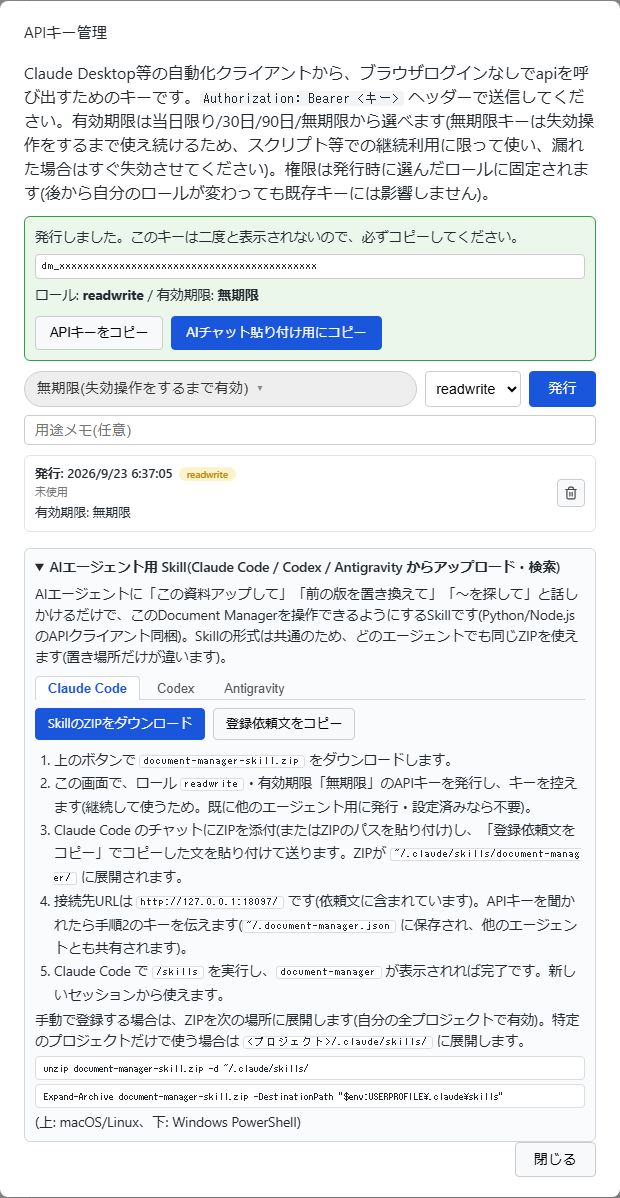
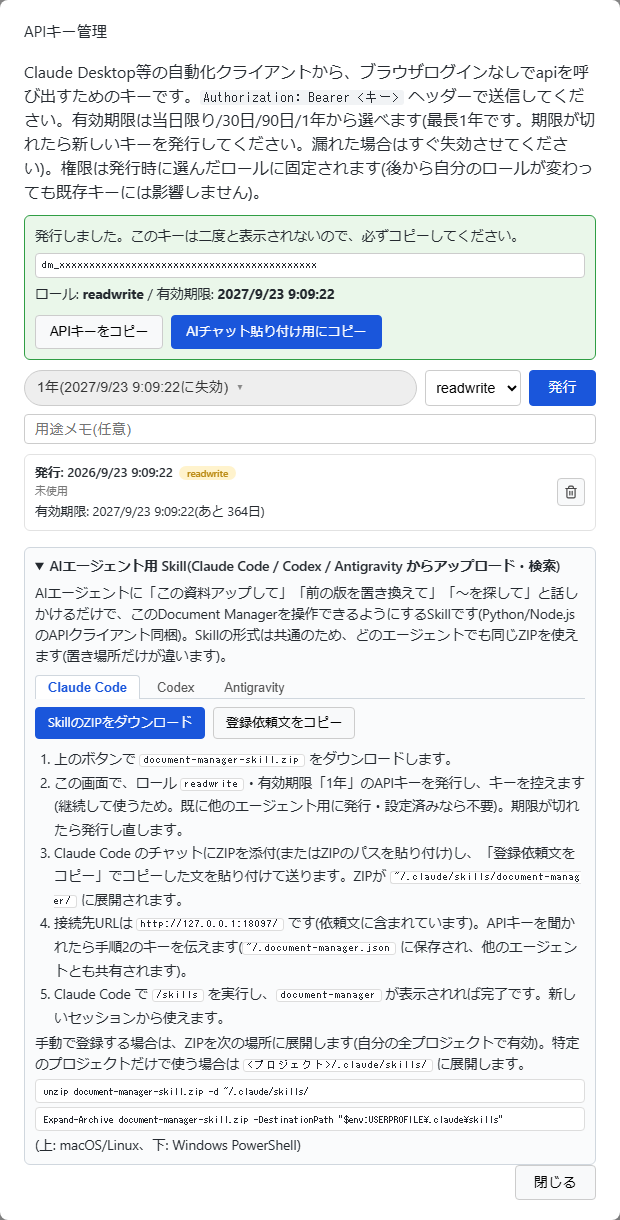
APIキーの有効期限を最長1年にし、無期限を廃止
無期限キーは漏えい時に際限なく使われるため、選択肢から外して上限を1年にした。

- 有効期限の選択肢を 当日限り/30日/90日/1年(365d)に変更。unlimited は400で拒否する
- 「無期限」だった頃に発行済みのキーは、起動時に上限(1年)へ切り詰める(capUnlimitedKeys)。
  有効なキーのみが対象で、失効済みは触らず、再実行しても二重に処理しない(実DBで確認)
- 番兵値(9999-12-31)をAPI応答でnullにしていた扱いを廃止し、常に実際の期限を返す
- 画面(発行フォーム・一覧・AIチャット貼り付け用テキスト・Skillの手順)と
  API仕様・README・SKILL.md・Docker Hub用説明文・スクリーンショットを更新
- 単体テスト・APIテストを1年基準に更新

Changed region(s): [[0.0306, 0.0, 0.9806, 0.9883], [0.9806, 0.9883, 1.0, 1.0], [0.0, 0.9883, 0.0306, 1.0]]

diff --git a/app/static/index.html b/app/static/index.html
@@ -1392,7 +1392,7 @@
 <div id="apiKeyOverlay" class="modalOverlay" style="display:none;">
 	<div class="modalBox" id="apiKeyModalBox">
 		<p>APIキー管理</p>
-		<div class="docMeta">Claude Desktop等の自動化クライアントから、ブラウザログインなしでapiを呼び出すためのキーです。<code>Authorization: Bearer &lt;キー&gt;</code> ヘッダーで送信してください。有効期限は当日限り/30日/90日/無期限から選べます(無期限キーは失効操作をするまで使え続けるため、スクリプト等での継続利用に限って使い、漏れた場合はすぐ失効させてください)。権限は発行時に選んだロールに固定されます(後から自分のロールが変わっても既存キーには影響しません)。</div>
+		<div class="docMeta">Claude Desktop等の自動化クライアントから、ブラウザログインなしでapiを呼び出すためのキーです。<code>Authorization: Bearer &lt;キー&gt;</code> ヘッダーで送信してください。有効期限は当日限り/30日/90日/1年から選べます(最長1年です。期限が切れたら新しいキーを発行してください。漏れた場合はすぐ失効させてください)。権限は発行時に選んだロールに固定されます(後から自分のロールが変わっても既存キーには影響しません)。</div>
 		<div id="apiKeyNewBox" style="display:none;"></div>
 		<div class="toolbarRow apiKeyCreateRow" style="margin: 10px 0 0;">
 			<button type="button" id="apiKeyExpirySummaryButton" class="apiKeyExpirySummaryButton"></button>
@@ -3251,12 +3251,9 @@ const API_KEY_EXPIRY_OPTIONS = [
 	},
 	{value: "30d", label: "30日", calc: (now) => new Date(now.getTime() + 30 * 24 * 60 * 60 * 1000)},
 	{value: "90d", label: "90日", calc: (now) => new Date(now.getTime() + 90 * 24 * 60 * 60 * 1000)},
-	// 無期限(サーバーはexpiresAt=nullを返す)。失効操作をするまで有効
-	{value: "unlimited", label: "無期限", calc: () => null}
+	// 発行できる最長の期限(1年)。スクリプト・AIエージェント等から継続して使う場合に選ぶ
+	{value: "365d", label: "1年", calc: (now) => new Date(now.getTime() + 365 * 24 * 60 * 60 * 1000)}
 ];
-
-// expiresAt=null(無期限キー)を期限切れ判定・並び替えで「ずっと先」として扱うためのミリ秒値
-const apiKeyExpiresAtMs = (expiresAt) => (expiresAt == null ? Infinity : new Date(expiresAt).getTime());
 
 // 選択中の有効期限オプション。デフォルトは「当日限り」で、通常はこのまま発行する想定
 let selectedApiKeyExpiryOption = "today";
@@ -3270,9 +3267,7 @@ const populateApiKeyRoleOptions = () => {
 
 const apiKeyExpiryOptionLabel = (option) => {
 	const opt = API_KEY_EXPIRY_OPTIONS.find((o) => o.value === option);
-	const expiresAt = opt.calc(new Date());
-	if (expiresAt == null) return `${opt.label}(失効操作をするまで有効)`;
-	return `${opt.label}(${formatDateTime(expiresAt.toISOString())}に失効)`;
+	return `${opt.label}(${formatDateTime(opt.calc(new Date()).toISOString())}に失効)`;
 };
 
 const updateApiKeyExpirySummary = () => {
@@ -3324,21 +3319,19 @@ const loadApiKeys = async () => {
 	const now = Date.now();
 	// 有効なキーを上、失効済みを下に。同じ状態内では発行日時が新しい順
 	const sorted = [...keys].sort((a, b) => {
-		const aExpired = apiKeyExpiresAtMs(a.expiresAt) <= now;
-		const bExpired = apiKeyExpiresAtMs(b.expiresAt) <= now;
+		const aExpired = new Date(a.expiresAt).getTime() <= now;
+		const bExpired = new Date(b.expiresAt).getTime() <= now;
 		if (aExpired !== bExpired) return aExpired ? 1 : -1;
 		return new Date(b.createdAt) - new Date(a.createdAt);
 	});
 	apiKeyList.innerHTML = sorted.length === 0
 		? `<div class="emptyMessage">APIキーはまだありません。</div>`
 		: sorted.map((row) => {
-			const expiresAtMs = apiKeyExpiresAtMs(row.expiresAt);
+			const expiresAtMs = new Date(row.expiresAt).getTime();
 			const isExpired = expiresAtMs <= now;
 			const warnSoon = !isExpired && (expiresAtMs - now) < 60 * 60 * 1000;
 			const expiryHtml = isExpired
 				? `<span class="apiKeyExpiredBadge">失効済み</span>`
-				: row.expiresAt == null
-				? `<div class="apiKeyExpiry">有効期限: 無期限</div>`
 				: `<div class="apiKeyExpiry ${warnSoon ? "warnSoon" : ""}">有効期限: ${formatDateTime(row.expiresAt)}(${formatRemainingTime(row.expiresAt)})</div>`;
 			// 発行日時を主見出しにし、用途(label)は入力されていれば備考として下に添える
 			const noteHtml = row.label ? `<div class="apiKeyMeta">${escapeHtml(row.label)}</div>` : "";
@@ -3421,7 +3414,7 @@ const renderSkillAgentGuide = () => {
 	});
 	document.getElementById("claudeSkillSteps").innerHTML = `
 		<li>上のボタンで <code>document-manager-skill.zip</code> をダウンロードします。</li>
-		<li>この画面で、ロール <code>readwrite</code>・有効期限「無期限」のAPIキーを発行し、キーを控えます(継続して使うため。既に他のエージェント用に発行・設定済みなら不要)。</li>
+		<li>この画面で、ロール <code>readwrite</code>・有効期限「1年」のAPIキーを発行し、キーを控えます(継続して使うため。既に他のエージェント用に発行・設定済みなら不要)。期限が切れたら発行し直します。</li>
 		<li>${escapeHtml(agent.label)} のチャットにZIPを添付(またはZIPのパスを貼り付け)し、「登録依頼文をコピー」でコピーした文を貼り付けて送ります。ZIPが <code>${escapeHtml(agent.dir)}/document-manager/</code> に展開されます。</li>
 		<li>接続先URLは <code id="claudeSkillBaseUrl">${escapeHtml(claudeSkillBaseUrl)}</code> です(依頼文に含まれています)。APIキーを聞かれたら手順2のキーを伝えます(<code>~/.document-manager.json</code> に保存され、他のエージェントとも共有されます)。</li>
 		<li>${agent.check}</li>
@@ -3482,7 +3475,7 @@ const buildApiKeyChatSnippet = async (apiKey, role, expiresAt) => {
 	return `Document ManagerのAPIキーを発行しました。以下の情報でAPIを直接呼び出してください。
 
 - ロール: ${role}(${roleNote})
-- 有効期限: ${expiresAt == null ? "無期限(発行者が失効させるまで使えます。外部に漏れないよう取り扱いに注意してください)" : `${formatDateTime(expiresAt)}(これを過ぎると使えなくなります。再度必要な場合は新しいキーを発行してください)`}
+- 有効期限: ${formatDateTime(expiresAt)}(これを過ぎると使えなくなります。再度必要な場合は新しいキーを発行してください)
 
 ${guide}`;
 };
@@ -3505,7 +3498,7 @@ apiKeyCreateButton.addEventListener("click", async () => {
 	apiKeyNewBox.innerHTML = `
 		発行しました。このキーは二度と表示されないので、必ずコピーしてください。
 		<code class="apiKeyValue">${created.apiKey}</code>
-		<div style="margin-top:6px;">ロール: <strong>${created.role}</strong> / 有効期限: <strong>${created.expiresAt == null ? "無期限" : formatDateTime(created.expiresAt)}</strong></div>
+		<div style="margin-top:6px;">ロール: <strong>${created.role}</strong> / 有効期限: <strong>${formatDateTime(created.expiresAt)}</strong></div>
 		<div class="apiKeyNewBoxButtons">
 			<button type="button" class="modalButton" id="apiKeyCopyRawButton">APIキーをコピー</button>
 			<button type="button" class="modalButton save" id="apiKeyCopyChatButton">AIチャット貼り付け用にコピー</button>

diff --git a/app/lib/api-keys.js b/app/lib/api-keys.js
@@ -8,8 +8,8 @@
  * 平文キーはDBに保存せず、sha256ハッシュのみを保存する(発行時に一度だけ平文を返す)。
  *
  * キーは「貼った先に平文で残る」運用を前提に、既定では有効期限を持たせる(当日限り/30日/90日)。
- * スクリプト・常駐ツール等からの継続利用向けに「無期限(unlimited)」も選べるが、その場合は
- * 失効操作(revoke)でのみ無効化される。権限はキー発行時に選んだロール
+ * 最長でも1年で失効する(無期限キーは発行できない。漏えいしたキットが際限なく使われるのを防ぐため)。
+ * スクリプト・常駐ツール等から継続利用する場合は、期限切れ前に発行し直す。権限はキー発行時に選んだロール
  * (readonly/readwrite。adminキーは発行不可)に固定される。
  * 発行者本人のロールが後から変わっても、既存キーのロードには影響しない
  * (権限判定は常に「キーに記録されたrole」を見る。発行者自身がホワイトリストから
@@ -30,17 +30,16 @@ const EXPIRY_OPTIONS = Object.freeze({
 	TODAY: "today",
 	DAYS_30: "30d",
 	DAYS_90: "90d",
-	UNLIMITED: "unlimited"
+	DAYS_365: "365d"
 });
 const isValidExpiryOption = (option) => Object.values(EXPIRY_OPTIONS).includes(option);
 
 const JST_OFFSET_MS = 9 * 60 * 60 * 1000;
 
-// 無期限キーのexpires_atに保存する番兵値(expires_atはNOT NULLのため)。ISO8601文字列の
-// 大小比較で常に「未来」になるので、verifyApiKeyの期限判定はそのままで通る。
-// APIの応答ではこの値をnull(=無期限)として返す
-const UNLIMITED_EXPIRES_AT = "9999-12-31T23:59:59.999Z";
-const toPublicExpiresAt = (expiresAt) => (expiresAt === UNLIMITED_EXPIRES_AT ? null : expiresAt);
+// 発行できる有効期限の上限(1年)。以前は「無期限」を選べたため、その頃に発行されたキーは
+// expires_atに番兵値(9999-12-31...)を持つ。起動時にこの上限まで切り詰める(capUnlimitedKeys)
+const MAX_EXPIRY_DAYS = 365;
+const LEGACY_UNLIMITED_EXPIRES_AT = "9999-12-31T23:59:59.999Z";
 
 // UTCのDateから「JSTの壁時計としての年月日」を取り出す(process.env.TZに依存させない)
 const toJstWallClockParts = (date) => {
@@ -57,7 +56,7 @@ const nextDay2amJstAsUtcDate = (now) => {
 
 /**
  * 有効期限の選択肢から実際のexpires_at(Date)を計算する。
- * TODAY(当日限り) = LEAST(now + 12時間, 翌日02:00(JST))。UNLIMITED(無期限)はnullを返す
+ * TODAY(当日限り) = LEAST(now + 12時間, 翌日02:00(JST))
  */
 const calculateExpiresAt = (option, now = new Date()) => {
 	switch (option) {
@@ -70,8 +69,8 @@ const calculateExpiresAt = (option, now = new Date()) => {
 			return new Date(now.getTime() + 30 * 24 * 60 * 60 * 1000);
 		case EXPIRY_OPTIONS.DAYS_90:
 			return new Date(now.getTime() + 90 * 24 * 60 * 60 * 1000);
-		case EXPIRY_OPTIONS.UNLIMITED:
-			return null;
+		case EXPIRY_OPTIONS.DAYS_365:
+			return new Date(now.getTime() + MAX_EXPIRY_DAYS * 24 * 60 * 60 * 1000);
 		default:
 			throw new Error(`invalid expiry option: ${option}`);
 	}
@@ -108,11 +107,27 @@ module.exports.API_KEY_ROLES = API_KEY_ROLES;
 module.exports.isValidApiKeyRole = isValidApiKeyRole;
 module.exports.isValidExpiryOption = isValidExpiryOption;
 module.exports.calculateExpiresAt = calculateExpiresAt;
-module.exports.toPublicExpiresAt = toPublicExpiresAt;
+module.exports.MAX_EXPIRY_DAYS = MAX_EXPIRY_DAYS;
+
+/**
+ * 「無期限」だった頃に発行されたキーを、現在の上限(1年)まで切り詰める。
+ * 起動のたびに実行して安全(対象が無ければ何もしない)。失効済みのキーは対象外
+ */
+module.exports.capUnlimitedKeys = async () => {
+	const cappedAt = new Date(Date.now() + MAX_EXPIRY_DAYS * 24 * 60 * 60 * 1000).toISOString();
+	const result = await ds.run(
+		"UPDATE api_keys SET expires_at = ? WHERE expires_at = ? AND revoked_at IS NULL",
+		[cappedAt, LEGACY_UNLIMITED_EXPIRES_AT]
+	);
+	if (result.changes > 0) {
+		logger.warn({count: result.changes, expiresAt: cappedAt}, "無期限だったAPIキーの有効期限を1年に切り詰めました");
+	}
+	return result.changes;
+};
 
 /**
  * 新しいAPIキーを発行する。平文キーはこの戻り値でのみ取得可能。
- * role(readonly/readwrite)とexpiryOption(today/30d/90d/unlimited)は呼び出し元(server.js)で
+ * role(readonly/readwrite)とexpiryOption(today/30d/90d/365d)は呼び出し元(server.js)で
  * 発行者の現在のロールと突き合わせた上で渡すこと。ここでは値の形式だけを検証する。
  */
 module.exports.createApiKey = async (label, role, expiryOption, createdBy) => {
@@ -133,9 +148,9 @@ module.exports.createApiKey = async (label, role, expiryOption, createdBy) => {
 		role,
 		created_by: createdBy,
 		created_at: now.toISOString(),
-		expires_at: expiresAt == null ? UNLIMITED_EXPIRES_AT : expiresAt.toISOString()
+		expires_at: expiresAt.toISOString()
 	});
-	return {id, label, role, apiKey, expiresAt: expiresAt == null ? null : expiresAt.toISOString()};
+	return {id, label, role, apiKey, expiresAt: expiresAt.toISOString()};
 };
 
 /**

diff --git a/app/server.js b/app/server.js
@@ -2093,8 +2093,7 @@ app.get(BASE_URL_PATH + 'api/apikeys', requireAuth, async (req, res) => {
 			role: row.role,
 			createdBy: row.created_by,
 			createdAt: row.created_at,
-			// 無期限キーはnull
-			expiresAt: ApiKeys.toPublicExpiresAt(row.expires_at),
+			expiresAt: row.expires_at,
 			lastUsedAt: row.last_used_at
 		}));
 		res.status(200).json(keys);
@@ -2131,7 +2130,7 @@ app.post(BASE_URL_PATH + 'api/apikeys', requireAuth, async (req, res) => {
 			return;
 		}
 		if (!ApiKeys.isValidExpiryOption(expiryOption)) {
-			res.status(400).json({error: "expiryOption must be one of today/30d/90d/unlimited"});
+			res.status(400).json({error: "expiryOption must be one of today/30d/90d/365d"});
 			return;
 		}
 		const created = await ApiKeys.createApiKey(label, role, expiryOption, req.authData.user_identifier);
@@ -2695,6 +2694,8 @@ const main = async () => {
 	// 前回の起動時に強制終了等でバックグラウンド処理中(processing)のまま残った文書があれば
 	// 未処理に戻す(プロセス内キューの情報は再起動で失われるため)。バックフィルより先に行うことで、
 	// 未処理へ戻った文書もバックフィル/以後の索引付けで正しく再処理の対象になるようにする
+	// 「無期限」を選べた頃に発行されたAPIキーがあれば、現在の上限(1年)へ切り詰める
+	await ApiKeys.capUnlimitedKeys();
 	await VectorSearch.recoverStaleProcessing();
 	// 過去にアップロードされた(このベクトル検索機能の導入前からある)文書を差分バックフィルする。
 	// サーバー起動をブロックしないよう非同期で流す。WEAVIATE_URL未設定時はisEnabled()の時点で

diff --git a/app/lib/api-spec.js b/app/lib/api-spec.js
@@ -212,8 +212,8 @@ const OPERATIONS = [
 	{id: "listApiKeys", method: "get", path: "/api/apikeys", role: "readonly", tag: "APIキー", summary: "自分が発行したAPIキーの一覧", aiGuide: false},
 	{
 		id: "createApiKey", method: "post", path: "/api/apikeys", role: "readonly", tag: "APIキー", summary: "APIキーの発行", aiGuide: false,
-		description: "ロールは発行者自身のロール以下(readonly/readwriteのみ。adminキーは発行不可)。有効期限は today/30d/90d/unlimited",
-		body: {schema: {type: "object", required: ["role", "expiryOption"], properties: {label: {type: "string"}, role: {enum: ["readonly", "readwrite"]}, expiryOption: {enum: ["today", "30d", "90d", "unlimited"]}}}}
+		description: "ロールは発行者自身のロール以下(readonly/readwriteのみ。adminキーは発行不可)。有効期限は today/30d/90d/365d(無期限キーは発行できない。最長1年)",
+		body: {schema: {type: "object", required: ["role", "expiryOption"], properties: {label: {type: "string"}, role: {enum: ["readonly", "readwrite"]}, expiryOption: {enum: ["today", "30d", "90d", "365d"]}}}}
 	},
 	{id: "revokeApiKey", method: "delete", path: "/api/apikeys/:id", role: "readonly", tag: "APIキー", summary: "自分が発行したAPIキーの失効", aiGuide: false},
 	{id: "listTagOrder", method: "get", path: "/api/tag_order", role: "readonly", tag: "タグ体系", summary: "タグ体系(表示するタグと並び順)の取得", aiGuide: false},

diff --git a/test/unit.test.js b/test/unit.test.js
@@ -89,11 +89,12 @@ test("calculateExpiresAt: today は min(now+12h, 翌日02:00 JST)", () => {
 	assert.equal(ApiKeys.calculateExpiresAt("today", now).toISOString(), "2026-01-01T12:00:00.000Z");
 });
 
-test("calculateExpiresAt: unlimited は null(無期限)", () => {
-	assert.equal(ApiKeys.calculateExpiresAt("unlimited", new Date()), null);
-	assert.equal(ApiKeys.isValidExpiryOption("unlimited"), true);
-	assert.equal(ApiKeys.toPublicExpiresAt("9999-12-31T23:59:59.999Z"), null);
-	assert.equal(ApiKeys.toPublicExpiresAt("2026-01-31T00:00:00.000Z"), "2026-01-31T00:00:00.000Z");
+test("calculateExpiresAt: 365d は1年後(発行できる最長)。無期限は選べない", () => {
+	const now = new Date("2026-01-01T00:00:00.000Z");
+	assert.equal(ApiKeys.calculateExpiresAt("365d", now).toISOString(), "2027-01-01T00:00:00.000Z");
+	assert.equal(ApiKeys.isValidExpiryOption("365d"), true);
+	assert.equal(ApiKeys.isValidExpiryOption("unlimited"), false, "無期限は発行できない");
+	assert.equal(ApiKeys.MAX_EXPIRY_DAYS, 365);
 });
 
 test("calculateExpiresAt: 不正な選択肢は例外", () => {

diff --git a/docs/screenshots/capture.js b/docs/screenshots/capture.js
@@ -70,7 +70,7 @@ const SPEC_V2 = `# 文書管理システム 仕様書 (第2版)
 - タグによる分類・タグ体系での一覧
 - プロジェクト単位でのフォルダ管理
 - 操作履歴の確認
-- APIキー(無期限キー対応)と AIエージェント用 Skill
+- APIキー(最長1年)と AIエージェント用 Skill
 
 ## 改訂履歴
 | 版 | 内容 |
@@ -209,7 +209,7 @@ const main = async () => {
 		await page.locator("#apiKeyManageLink").click();
 		await page.selectOption("#apiKeyRoleInput", "readwrite");
 		await page.locator("#apiKeyExpirySummaryButton").click();
-		await page.locator('.expiryRadioPill[data-value="unlimited"]').click();
+		await page.locator('.expiryRadioPill[data-value="365d"]').click();
 		await page.locator("#apiKeyCreateButton").click();
 		await page.locator(".apiKeyValue").waitFor();
 		// 公開READMEにキー形式の文字列を載せないよう、表示中の平文キーを伏せ字にしてから撮る

diff --git a/tools/claude-skill/document-manager/README.md b/tools/claude-skill/document-manager/README.md
@@ -17,10 +17,10 @@ document-manager/
 ## 1. 事前準備: APIキーの発行
 
 1. Document Manager にブラウザでログインし、画面右上の「APIキー管理」を開きます。
-2. ロールは `readwrite` を選びます。有効期限は、AIエージェントから継続して使う場合は「無期限」がおすすめです。
+2. ロールは `readwrite` を選びます。有効期限は最長1年です。AIエージェントから継続して使う場合は「1年」を選び、切れたら発行し直してください。
 3. 発行されたキー(`dm_...`)を控えておきます。キーは発行直後にしか表示されません。
 
-無期限キーは、失効操作をするまで使い続けられます。漏れた場合は、同じ画面ですぐに失効させてください。
+キーが漏れた場合は、同じ画面ですぐに失効させてください。
 
 ## 2. Skill として登録する
 

diff --git a/tools/claude-skill/document-manager/SKILL.md b/tools/claude-skill/document-manager/SKILL.md
@@ -25,7 +25,7 @@ Windowsで `python` が無ければ `py`、macOS/Linuxで無ければ `python3` 
 
 1. Document ManagerのURL(例: `https://docs.example.com/` 。サブパス配下ならそのパスまで含める)
 2. APIキー(`dm_` で始まる文字列)。Document Managerの画面右上「APIキー管理」で発行できる。
-   ロールは書き込みができる `readwrite` にする。AIエージェントから継続して使う場合は、有効期限に「無期限」を選ぶとよい。
+   ロールは書き込みができる `readwrite` にする。AIエージェントから継続して使う場合は、有効期限に最長の「1年」を選ぶとよい(期限が切れたら発行し直す)。
 
 受け取ったら、ユーザーの了承を得たうえで `~/.document-manager.json` に保存する
 (Windowsでは `%USERPROFILE%\.document-manager.json`)。
